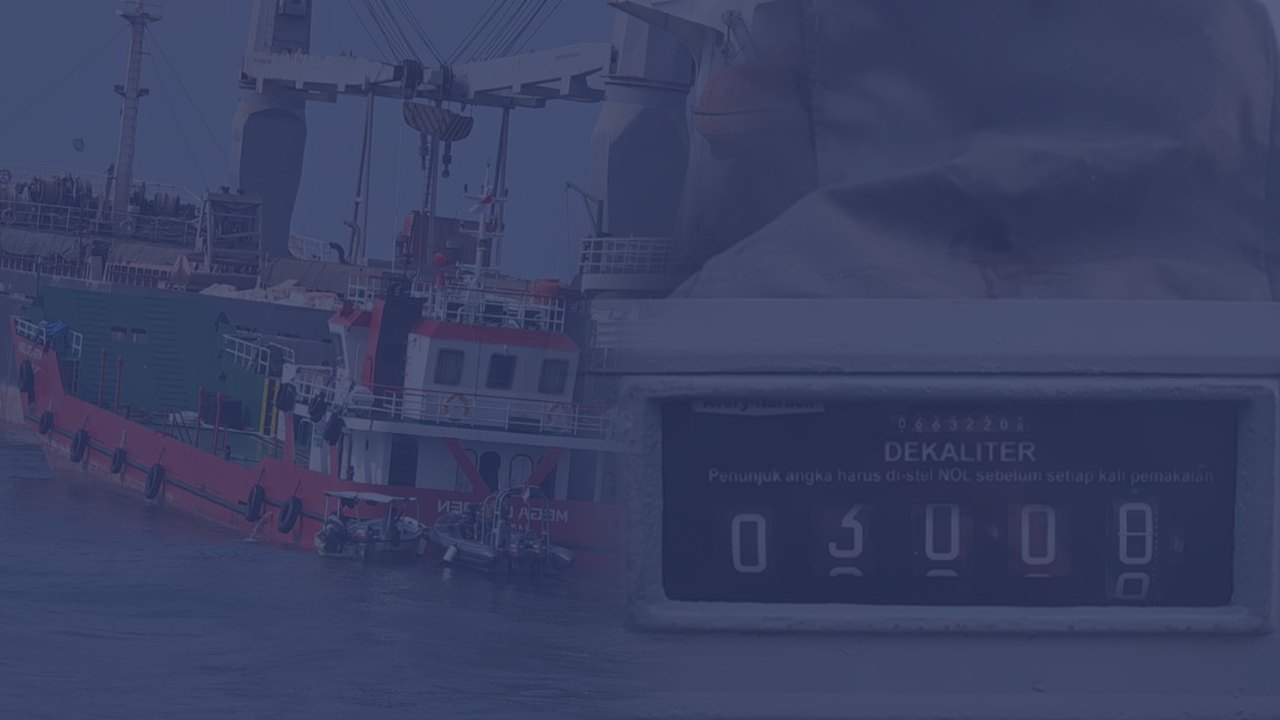
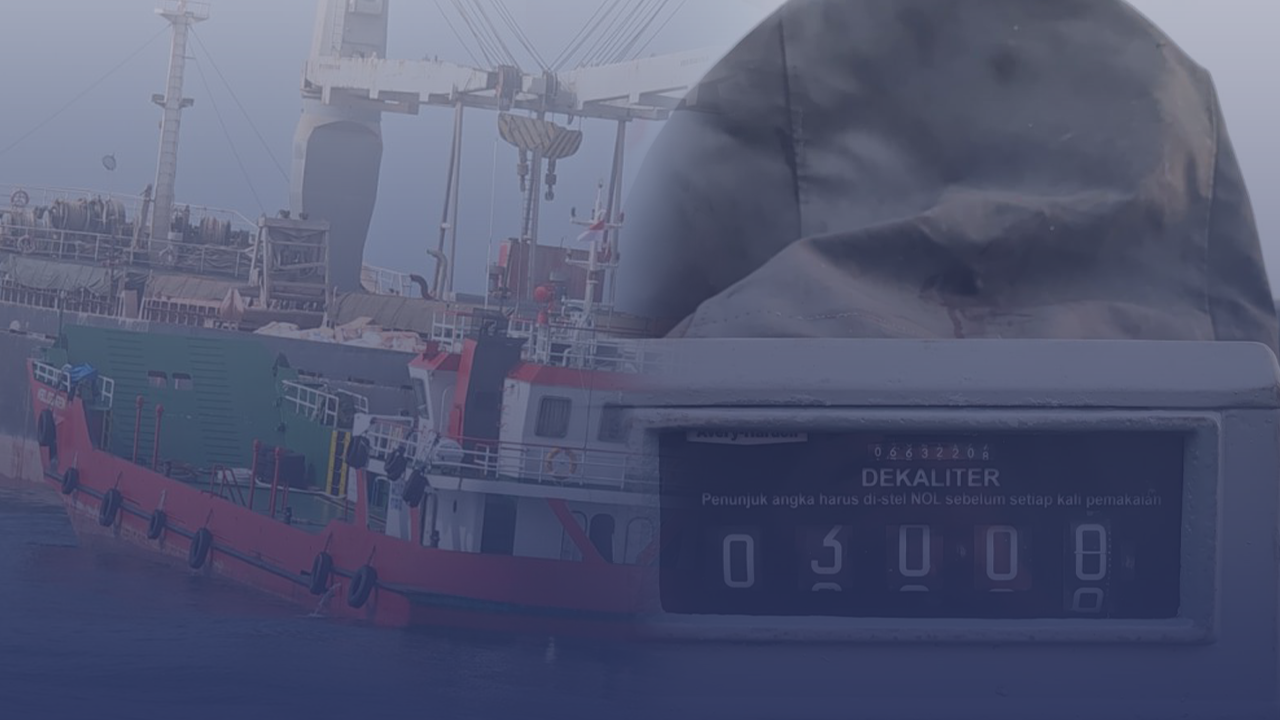
Update MissionVision text and apply blur effects to card images

diff --git a/components/MissionVision.tsx b/components/MissionVision.tsx
@@ -59,8 +59,8 @@ const MissionVision: React.FC = () => {
         <div className="mt-12 md:mt-20 grid grid-cols-3 gap-6 sm:gap-10 md:gap-12 w-full max-w-xs sm:max-w-lg md:max-w-3xl relative z-40">
           {[
             { label: 'Quality', sub: 'Certified Bunker Fuel' },
-            { label: 'Integrity', sub: 'Transparent Operations' },
-            { label: 'Service', sub: '24/7 Port Availability' },
+            { label: 'Integrity', sub: 'Transparent Operation' },
+            { label: 'Service', sub: '24/7 Availability' },
           ].map((item) => (
             <div key={item.label} className="text-center group hover:-translate-y-1 transition-transform duration-300">
               <h4 className="text-amber-400 font-bold text-sm sm:text-base md:text-lg mb-1 sm:mb-2">{item.label}</h4>

diff --git a/components/Services.tsx b/components/Services.tsx
@@ -51,7 +51,7 @@ const Services: React.FC = () => {
                 <img 
                   src={service.image} 
                   alt={service.title} 
-                  className={`absolute inset-0 w-full h-full object-cover transition-transform duration-700 group-hover:scale-110 ${service.imagePosition || ''}`}
+                  className={`absolute inset-0 w-full h-full object-cover transition-transform duration-700 blur-[2px] scale-105 group-hover:scale-[1.15] ${service.imagePosition || ''}`}
                 />
 
                 {/* Top Right Icon */}

diff --git a/components/Products.tsx b/components/Products.tsx
@@ -83,7 +83,7 @@ const Products: React.FC = () => {
                 <img 
                   src={product.image} 
                   alt={product.title} 
-                  className="absolute inset-0 w-full h-full object-cover transition-transform duration-700 group-hover:scale-110"
+                  className="absolute inset-0 w-full h-full object-cover transition-transform duration-700 blur-[2px] scale-105 group-hover:scale-[1.15]"
                 />
 
                 {/* Top Right Icon */}
